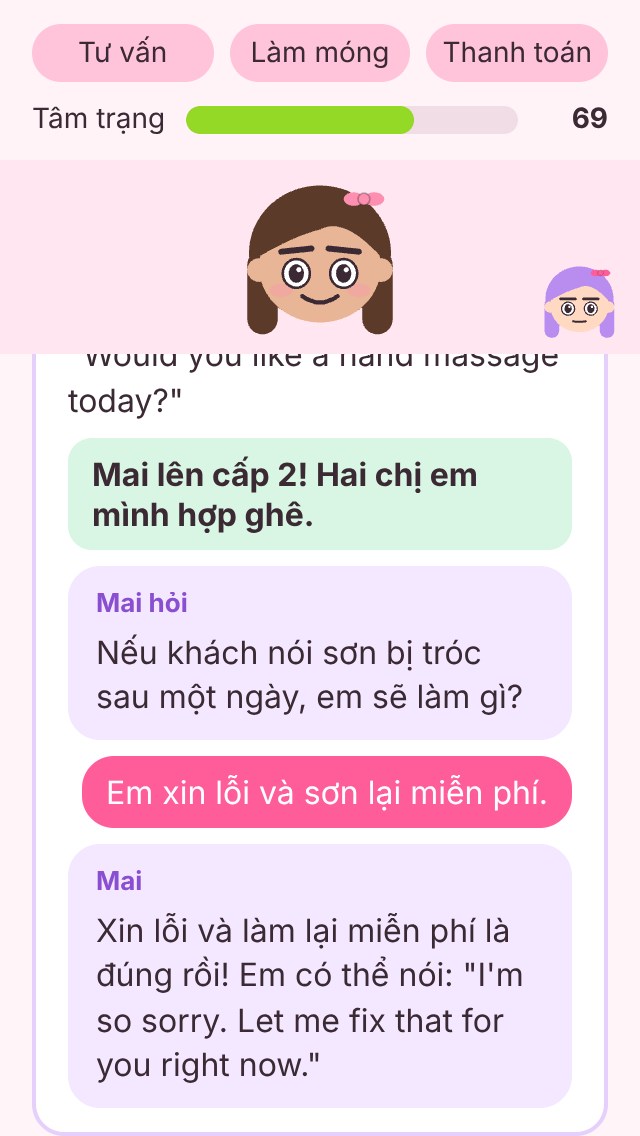
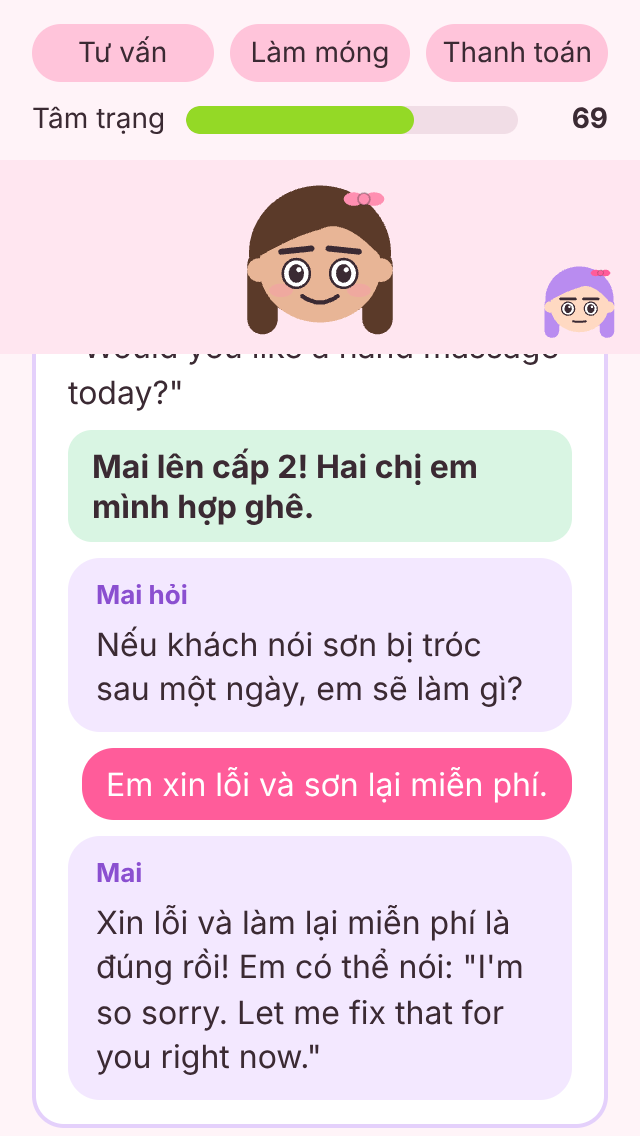
Evidence fix: per-line mock translations; translation cache test
Overseer check on 88d23d7 (vi-320-03-whisper-correction.png showed the first
line's Vietnamese under "Pink, please."): it was the EVIDENCE SCRIPT'S MOCK,
not the game. The mock /api/translate returned one fixed string for every
line. The game's cache is keyed by each line's own text.
- The evidence mocks now translate per line, and the scripts check that every
  client bubble's translation is its own (82 translated lines checked across
  the story 008, 003 and 011 runs, 0 mismatches). Re-shot all three.
- New tests/translation-cache.test.ts: two different client lines each get
  their own Vietnamese; one line is asked for once even when requested twice.
- npm test 155/155. No game code changed.

Next: story 004.

Claude-Session: https://claude.ai/code/session_01Fx5cxFjSfz8L37QZFocT7H

diff --git a/src/tests/translation-cache.test.ts b/src/tests/translation-cache.test.ts
@@ -1,0 +1,39 @@
+import { describe, expect, it } from 'vitest';
+import { createTranslationCache } from '../game/translation-cache';
+import type { Translate } from '../game/types';
+
+/** Story 010 translation cache: every client line gets its own Vietnamese (overseer check after story 011). */
+
+const fakeTranslate = (): { translate: Translate; calls: string[] } => {
+  const calls: string[] = [];
+  const translate: Translate = async (text) => {
+    calls.push(text);
+    return `VI(${text})`;
+  };
+  return { translate, calls };
+};
+
+describe('translation cache', () => {
+  it('gives two different client lines their own translations', async () => {
+    const { translate, calls } = fakeTranslate();
+    const cache = createTranslationCache(translate);
+    const [first, second] = await Promise.all([cache.get('Hi, I booked a manicure.'), cache.get('Pink, please. Short and round.')]);
+    expect(first).toBe('VI(Hi, I booked a manicure.)');
+    expect(second).toBe('VI(Pink, please. Short and round.)');
+    expect(cache.peek('Hi, I booked a manicure.')).toBe(first);
+    expect(cache.peek('Pink, please. Short and round.')).toBe(second);
+    expect(calls).toEqual(['Hi, I booked a manicure.', 'Pink, please. Short and round.']);
+  });
+
+  it('asks once for a line, even when asked twice at the same time or again later', async () => {
+    const { translate, calls } = fakeTranslate();
+    const cache = createTranslationCache(translate);
+    await Promise.all([cache.get('Pink, please.'), cache.get('Pink, please.')]);
+    await cache.get('Pink, please.');
+    expect(calls).toEqual(['Pink, please.']);
+  });
+
+  it('has nothing for a line it has not translated', () => {
+    expect(createTranslationCache(fakeTranslate().translate).peek('Never seen.')).toBeUndefined();
+  });
+});

diff --git a/production/qa/evidence/story-008-menus-in-vietnamese/README.md b/production/qa/evidence/story-008-menus-in-vietnamese/README.md
@@ -20,3 +20,5 @@ Checked in the same run (script log):
 - Fixed from the first run: the Vietnamese chat placeholder "Câu trả lời của bạn…" was cut off; now "Trả lời…".
 
 **The blank portrait block in the first capture was not a game bug.** Chromium's default headless GPU path drops the WebGL canvas from full-viewport screenshots (story 002's evidence noted the same). A clip of just the portrait zone showed Dana and the bestie, and with `--use-angle=swiftshader` the full captures show them too. Future evidence captures should use that flag.
+
+**Mock translations (re-shot 2026-11-10):** the browser test now gives every client line its own Vietnamese, and the script checks that each bubble shows its own translation (it found no mismatches). An earlier capture showed one fixed mock string under every line; that was the test mock, not the game.

diff --git a/production/qa/evidence/story-011-learning-loop/README.md b/production/qa/evidence/story-011-learning-loop/README.md
@@ -25,3 +25,5 @@ Checked in the same run (script log):
 - Fixed in this run: a correction was taller than the whisper area at 320 px (now compact); in full Vietnamese mode a late-arriving translation pushed the newest line below the fold (the chat now stays scrolled to the end).
 
 Still needs the real API: that corrections are kind, level-fair and not too frequent in real play, and that the recap reads naturally.
+
+**Mock translations (re-shot 2026-11-10):** the browser test now gives every client line its own Vietnamese, and the script checks that each bubble shows its own translation (it found no mismatches). An earlier capture showed one fixed mock string under every line; that was the test mock, not the game.

diff --git a/production/qa/evidence/story-003-signature-bestie/README.md b/production/qa/evidence/story-003-signature-bestie/README.md
@@ -22,3 +22,5 @@ Checked in the same run (script log):
 - Fixed in this run: on 320×568 the title menu ran 15 px off-screen once the greeting was added; short screens now get a tighter menu.
 
 Still needs the real API: how Mai actually sounds (kind, short, in Vietnamese with English example lines), and that her memory notes stay useful over several sessions.
+
+**Mock translations (re-shot 2026-11-10):** the browser test now gives every client line its own Vietnamese, and the script checks that each bubble shows its own translation (it found no mismatches). An earlier capture showed one fixed mock string under every line; that was the test mock, not the game.
